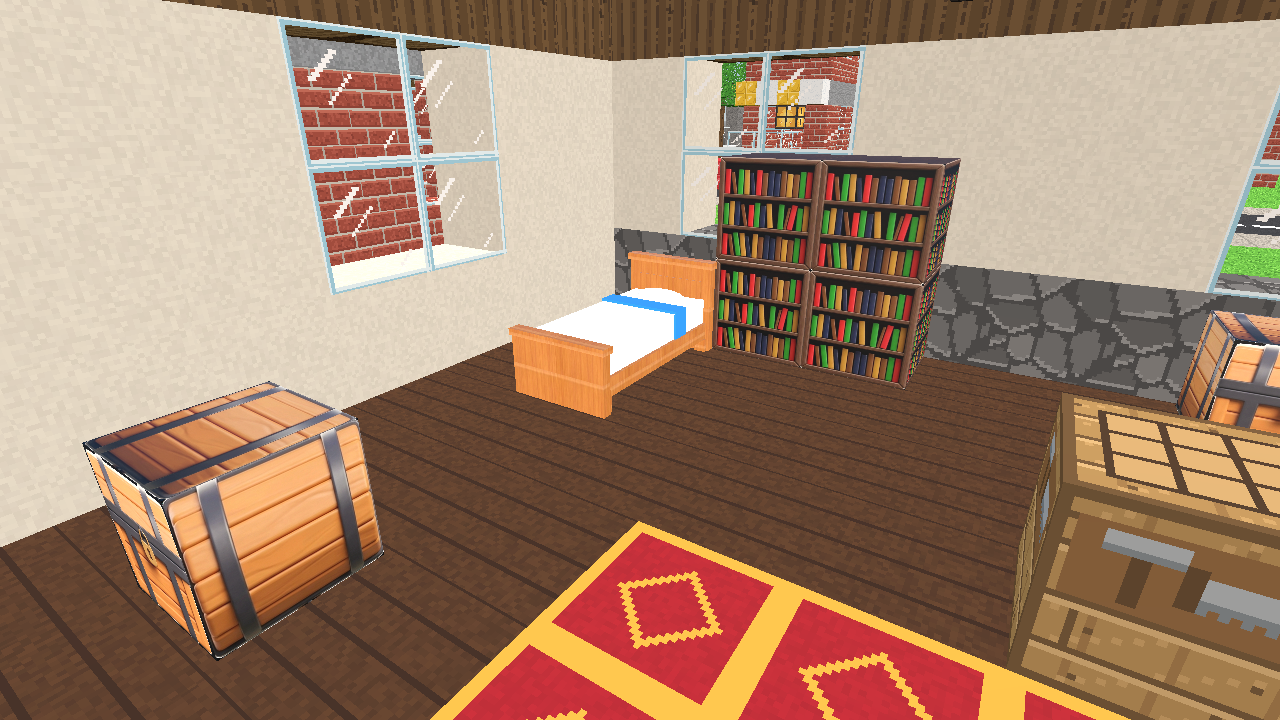
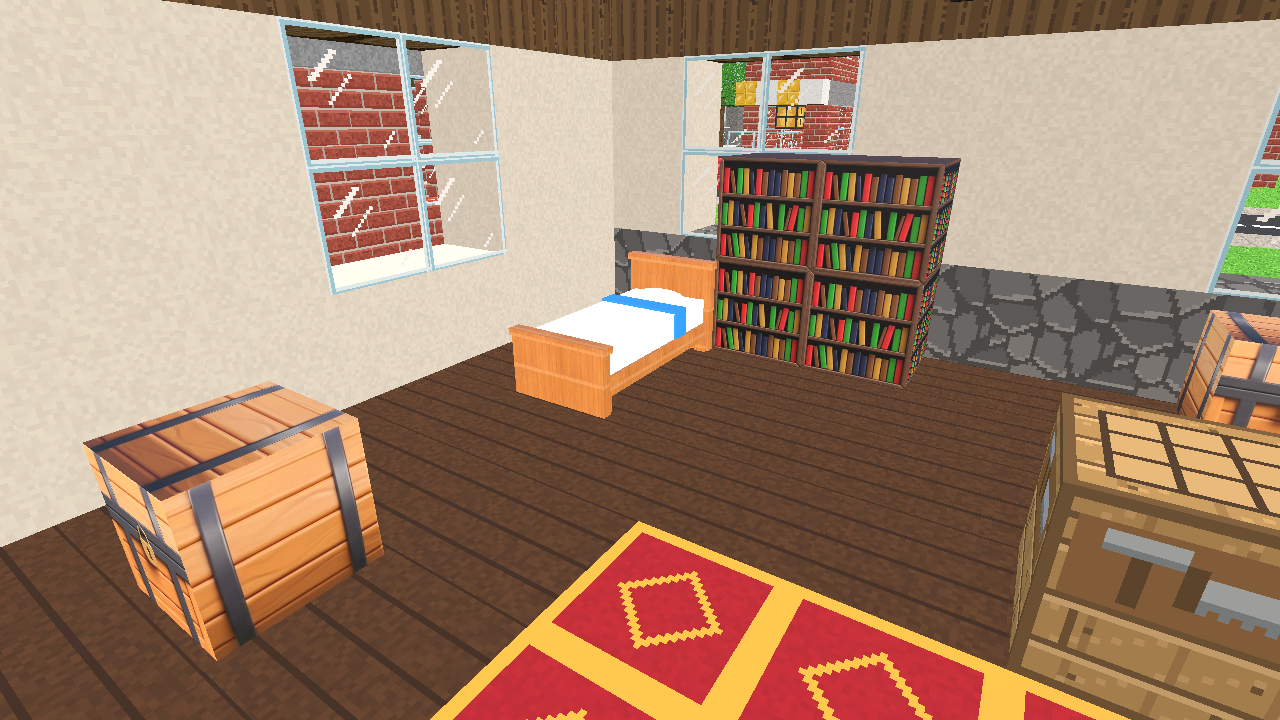
fix: kitaplık ve sandık kenarlarındaki beyaz çizgiler
Görseller parlak kenar pikselleri dışarıda kalacak şekilde yeniden kırpıldı; model
dokusundaki üç bölge kenar uzatmalı dolguyla ayrıldı (tools/art/pack_model_texture.py),
UV'ler dolgunun içine alındı ve doku tekrarı kapatıldı.

Claude-Session: https://claude.ai/code/session_01VF2h6snkXtCQi9ysLrDNVf

Changed region(s): [[0.0625, 0.5194, 0.3125, 0.9167], [0.5625, 0.2139, 0.75, 0.55], [0.9062, 0.4278, 1.0, 0.6111]]

diff --git a/tools/art/pack_model_texture.py b/tools/art/pack_model_texture.py
@@ -1,0 +1,33 @@
+"""Model dokusu paketler: ön | yan | üst üç kare, her birinin çevresine kenar uzatmalı dolgu.
+Dolgu, uzaktan (mipmap) ve bilinear örneklemede bölgelerin birbirine sızıp kenarda
+beyaz/açık çizgi yapmasını önler. CubeModel.PAD ve CELL ile aynı olmalı."""
+import sys
+from PIL import Image
+
+CELL, PAD = 512, 32
+
+
+def padded(img: Image.Image) -> Image.Image:
+    img = img.convert("RGB").resize((CELL, CELL), Image.LANCZOS)
+    out = Image.new("RGB", (CELL + 2 * PAD, CELL + 2 * PAD))
+    out.paste(img, (PAD, PAD))
+    # kenar pikselini dışarı uzat
+    out.paste(img.crop((0, 0, CELL, 1)).resize((CELL, PAD)), (PAD, 0))
+    out.paste(img.crop((0, CELL - 1, CELL, CELL)).resize((CELL, PAD)), (PAD, CELL + PAD))
+    col = out.crop((PAD, 0, PAD + 1, CELL + 2 * PAD)).resize((PAD, CELL + 2 * PAD))
+    out.paste(col, (0, 0))
+    col = out.crop((PAD + CELL - 1, 0, PAD + CELL, CELL + 2 * PAD)).resize((PAD, CELL + 2 * PAD))
+    out.paste(col, (PAD + CELL, 0))
+    return out
+
+
+def pack(front, side, top, path):
+    w = CELL + 2 * PAD
+    out = Image.new("RGB", (w * 3, w))
+    for i, im in enumerate((front, side, top)):
+        out.paste(padded(im), (i * w, 0))
+    out.save(path)
+
+
+if __name__ == "__main__":
+    pack(*[Image.open(p) for p in sys.argv[1:4]], sys.argv[4])
